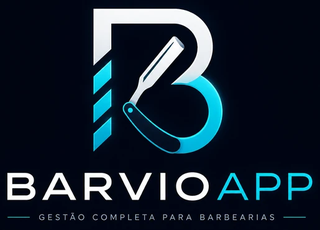
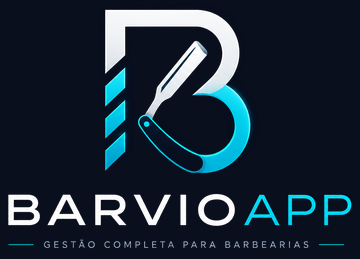
ajustes logo2

diff --git a/barbearia-web/src/app/layout.tsx b/barbearia-web/src/app/layout.tsx
@@ -33,8 +33,11 @@ export const metadata: Metadata = {
     title: "BarvioApp",
     statusBarStyle: "default",
   },
-  // Cartão ao compartilhar o link (WhatsApp, redes). Usa o lockup em PNG:
-  // vários leitores de preview ainda não abrem WebP.
+  // Cartão ao compartilhar o link (WhatsApp, redes).
+  //
+  // Imagem OPACA e em PNG, de propósito: as plataformas compõem sobre fundo
+  // branco, e um PNG transparente deixaria o wordmark branco invisível.
+  // 1200×630 é a proporção que elas esperam; WebP nem todas leem.
   openGraph: {
     type: "website",
     siteName: "BarvioApp",
@@ -42,7 +45,7 @@ export const metadata: Metadata = {
     description:
       "Agenda online, comanda, estoque, comissão e app para o cliente.",
     locale: "pt_BR",
-    images: [{ url: "/brand/barvioapp-lockup.png", width: 320, height: 230 }],
+    images: [{ url: "/brand/barvioapp-og.png", width: 1200, height: 630 }],
   },
 };
 

diff --git a/pm/marca-barvioapp.md b/pm/marca-barvioapp.md
@@ -8,11 +8,18 @@
 
 | Arquivo | Uso |
 |---|---|
-| `public/brand/barvioapp-lockup.webp` | Lockup completo (símbolo + nome + tagline). **Só em fundo escuro** |
-| `public/brand/barvioapp-lockup.png` | Mesmo lockup, fallback e cartão de compartilhamento (Open Graph não lê WebP em todo lugar) |
+| `public/brand/barvioapp-lockup.webp` | Lockup completo, **fundo transparente**. Só em fundo escuro |
+| `public/brand/barvioapp-lockup.png` | Mesmo lockup, opaco. Fallback do `<img>` |
+| `public/brand/barvioapp-og.png` | Cartão de compartilhamento, 1200×630, **opaco** |
 | `public/brand/barvioapp-tile.webp` | Símbolo sobre azulejo escuro arredondado. Para telas claras |
 | `public/icons/icon-192 · icon-512 · icon-maskable-512 · apple-touch-icon` | PWA |
-| `src/app/favicon.ico` | Multi-resolução, de 16 a 256 px |
+| `src/app/favicon.ico` | 16, 32 e 48 px, PNG **RGBA** dentro do ICO |
+
+### Duas armadilhas que já custaram um build
+
+**O ICO precisa ser RGBA.** Gerei primeiro a partir de uma imagem RGB, e o Turbopack quebrou o build inteiro com `The PNG is not in RGBA format!`. O decodificador dele (crate `image` do Rust) recusa PNG sem canal alfa dentro de um ICO. O `src/app/favicon.ico` é o **único** arquivo de imagem que o Next processa — os de `public/` são servidos crus e podem ser RGB à vontade.
+
+**A imagem de Open Graph precisa ser opaca.** WhatsApp e redes sociais compõem o preview sobre fundo branco. Com PNG transparente, o wordmark branco desapareceria e sobraria só o símbolo. Por isso a `-og.png` tem o fundo da marca embutido — e é a única do conjunto que não é transparente por escolha.
 
 O original enviado (1536×1024) não foi versionado — os derivados saem dele. **Guarde o arquivo-fonte fora do repositório**, é dele que sai qualquer variante futura.
 

diff --git a/pm/change-log.md b/pm/change-log.md
@@ -86,5 +86,7 @@
 
 | 2026-07-28 | Correcao de 4 erros de tipo que mantinham o build da Vercel quebrado (o site em producao ainda servia a versao antiga, com o nome lbraunapp): usePathname() pode ser null no Next 16 em ProBottomNav; e `type` como string onde o Prisma espera o enum StockMovementType, em 3 pontos de estoque/movimentacoes — consequencia de remover os `any` do B2, que escondiam o problema. Encontrados rodando tsc de verdade num ambiente Linux montado do zero. Doc: pm/type-check.md | Claude | Implementado |
 
+| 2026-07-28 | Build quebrava no favicon: `The PNG is not in RGBA format!`. O ICO fora gerado a partir de imagem RGB e o decodificador do Turbopack exige RGBA. Regenerado em RGBA e enxugado de 6 para 3 tamanhos (16/32/48), de 60 KB para 5 KB. No mesmo passo: lockup passou a ter fundo transparente (embutido, aparecia como retangulo escuro sobre o card do painel) e a imagem de Open Graph virou opaca 1200x630 — transparente, o wordmark branco sumiria no preview do WhatsApp, que compoe sobre branco | Claude | Implementado |
+
 ## Regra
 Toda mudanca de escopo apos o baselining deve ser registrada aqui antes de virar desenvolvimento.
